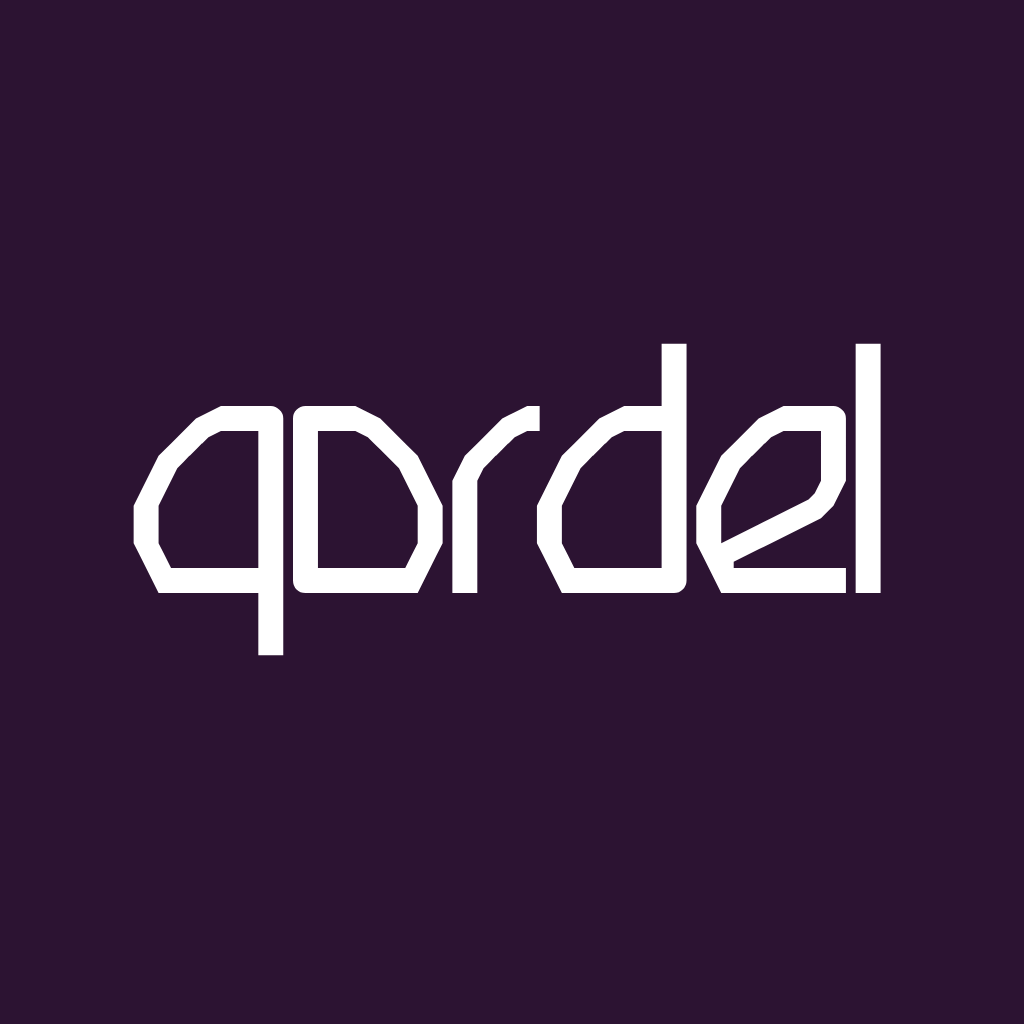
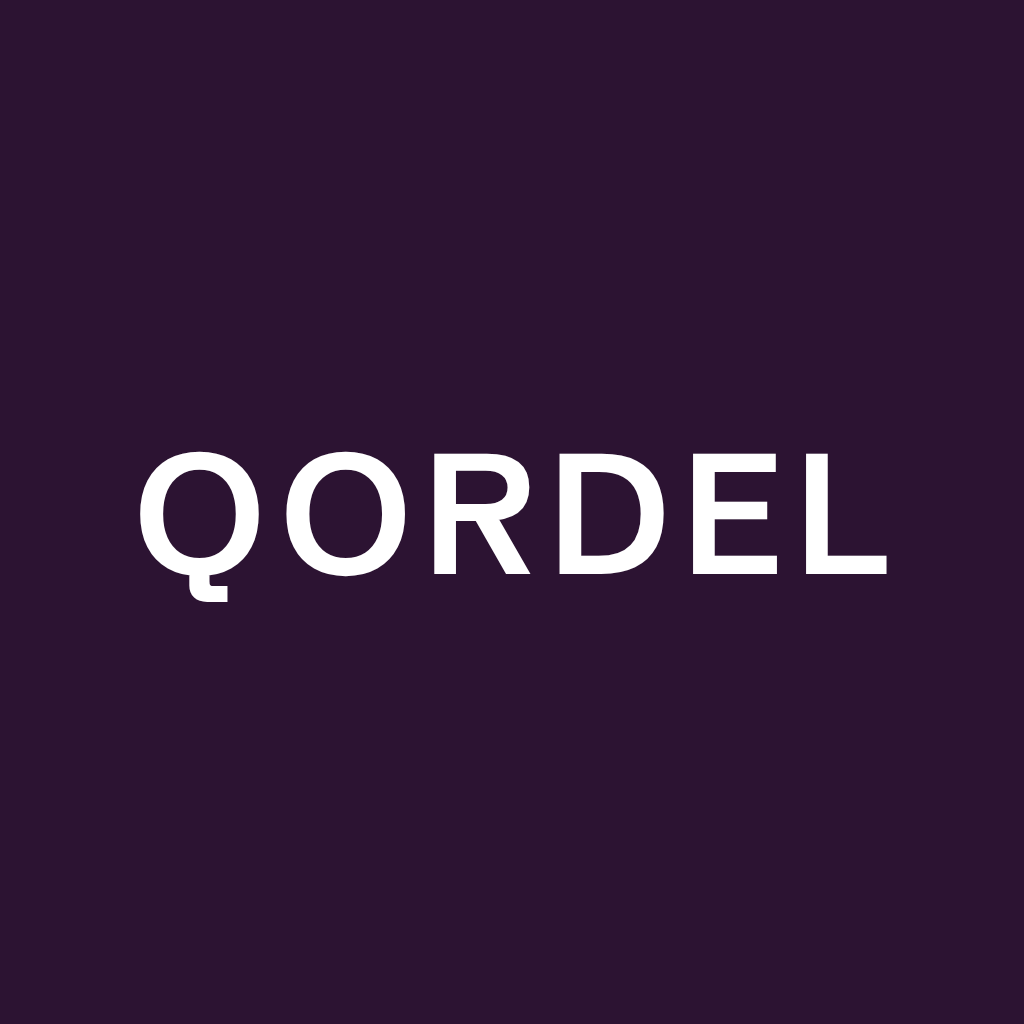
tests and notes: QORDEL in capitals with the app font
Claude-Session: https://claude.ai/code/session_01557KYinyYAogRWmsupXsTG

Changed region(s): [[0.125, 0.3125, 0.875, 0.6562]]

diff --git a/notes/brand/brand.md b/notes/brand/brand.md
@@ -8,9 +8,10 @@
 
 ## Logo
 
-- The name written in Ruba Regular, as for Planck ("the logo is the name"). Ruba is unicase, so it reads "qordel". App icons: white on Moonlit Plum. Android badge: a heavier "q".
-- Watch: in Ruba the "o" is a notched rounded box, and "qordel" can read as "qardel" at a glance. The owner's card shows QORDEL in plain capitals, which reads at once.
-- Files: `make-icons-qordel.cjs`, `qordel-icon-1024.png`, `qordel-wordmark.png`.
+- **The name in capitals, QORDEL** (owner: "use capitals", after the Ruba version could read as "qardel"). Set in the app's own Schibsted Grotesk SemiBold, letter-spacing 0.06em, so the logo, the text and the icons are one family on every device. In the app the text stays "Qordel" (shown in capitals by CSS), so a screen reader says the word.
+- App icons: QORDEL in white on Moonlit Plum `#2C1332`. Android status-bar badge: the "Q".
+- Ruba Regular is no longer used; its file and credit were removed.
+- Files: `make-icons-qordel.cjs` (draws every icon from the app font; needs the font's data URI in `schibsted-600.txt` beside it), `qordel-icon-1024.png`, `qordel-wordmark.png`.
 
 ## Name check (2026-10-19)
 
